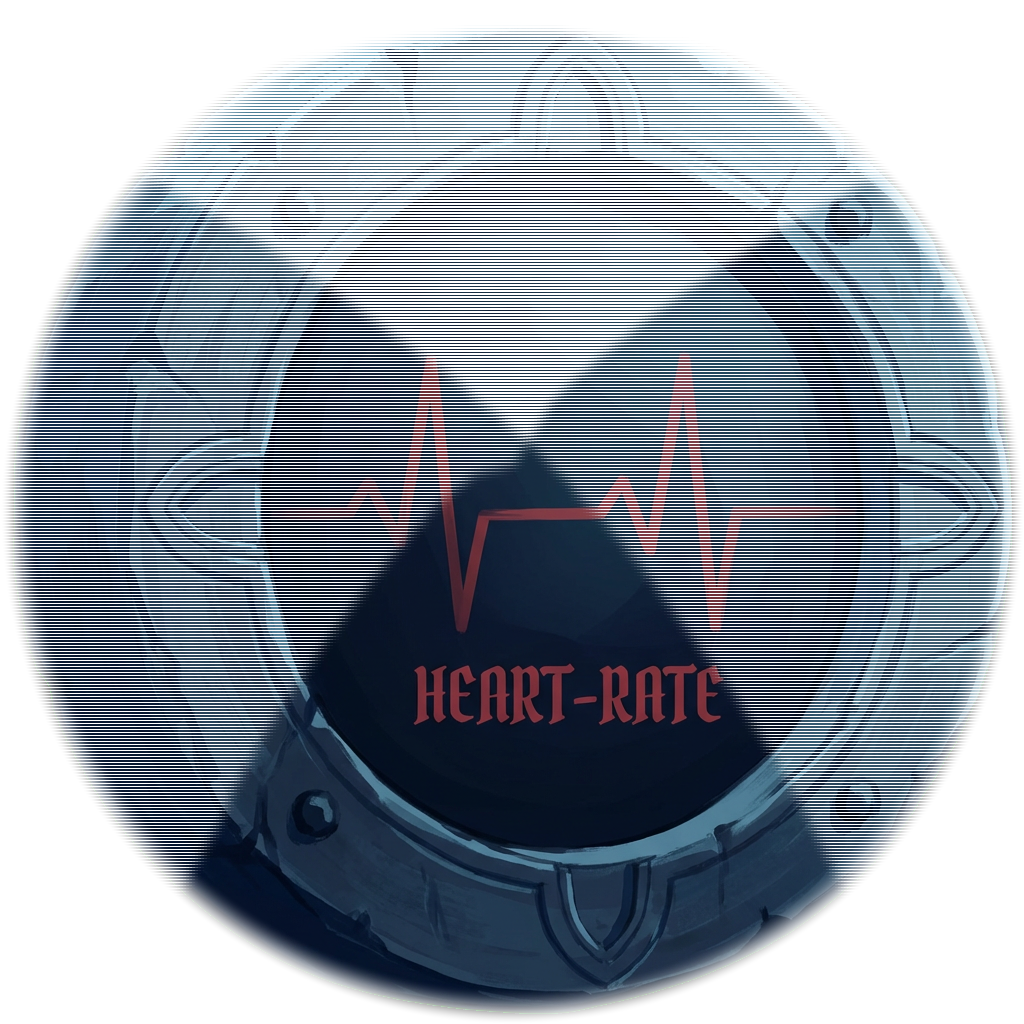
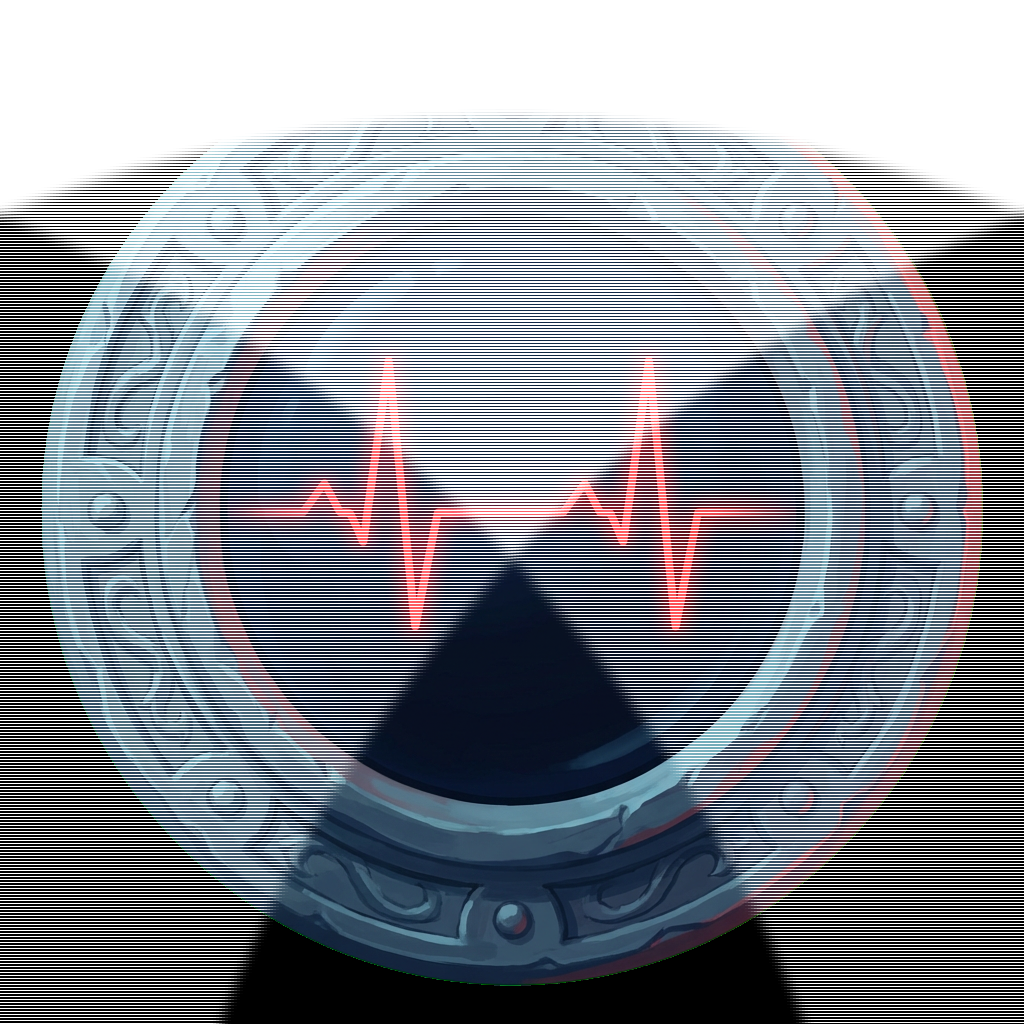
feat(layer3): strengthen ep1/ep10 green-bg prompt; keep mask as fallback
Added CRITICAL BACKGROUND REQUIREMENT block to ep1/ep10 theme-gauge
prompts demanding flat #00FF00 filling all corners with no gradient,
vignette, or scene paint. ep1 regenerated cleanly — Gemini obeyed.
ep10 still painted dark atmospheric bg around bezel so the per-ep
alpha mask (0.73-0.80) is still applied as safety net.

diff --git a/scripts/layer3-prompts.js b/scripts/layer3-prompts.js
@@ -52,7 +52,7 @@ module.exports = {
       {
         name: 'theme-gauge',
         model: 'google/gemini-3-pro-image-preview',
-        prompt: 'Hand-painted 2D digital illustration, anime-cinematic concept art style, cel-shaded with soft gradients, hard clean silhouettes, painterly brushwork, flat shading with minimal detail, cool desaturated moody palette of deep blue-grey shadows and weathered stone tones with a single warm crimson accent, dramatic rim lighting from the side, noir gothic atmosphere matching a painted graveyard at dusk. A perfectly round circular antique heart-rate dial, carved weathered grey-blue stone bezel with simple engraved gothic motifs and a few painted rivets, dark obsidian-blue glass face showing a single glowing crimson ECG waveform pulsing across the center with two visible peaks, the waveform painted as clean flat brushstrokes rather than glowing tube, the bezel reads as hand-painted sculpted stone not polished metal, centered composition, perfectly round circular shape filling the frame, suitable as a faceplate behind a game gauge. NOT photorealistic, NOT 3D render, NOT CGI, NOT cinematic photo, NOT realistic texture, NOT studio render, NOT hyperrealistic, NOT photograph, no micro-texture, no glossy reflections, no lens blur. Solid pure #00FF00 chroma green background filling all edges around the circular bezel, 1024x1024.',
+        prompt: 'Hand-painted 2D digital illustration, anime-cinematic concept art style, cel-shaded with soft gradients, hard clean silhouettes, painterly brushwork, flat shading with minimal detail, cool desaturated moody palette of deep blue-grey shadows and weathered stone tones with a single warm crimson accent, dramatic rim lighting from the side, noir gothic atmosphere matching a painted graveyard at dusk. A perfectly round circular antique heart-rate dial, carved weathered grey-blue stone bezel with simple engraved gothic motifs and a few painted rivets, dark obsidian-blue glass face showing a single glowing crimson ECG waveform pulsing across the center with two visible peaks, the waveform painted as clean flat brushstrokes rather than glowing tube, the bezel reads as hand-painted sculpted stone not polished metal, centered composition, perfectly round circular shape, the gauge bezel must NOT touch any edge of the frame and must be surrounded on all four sides by a wide band of pure chroma green, suitable as a faceplate behind a game gauge. NOT photorealistic, NOT 3D render, NOT CGI, NOT cinematic photo, NOT realistic texture, NOT studio render, NOT hyperrealistic, NOT photograph, no micro-texture, no glossy reflections, no lens blur. CRITICAL BACKGROUND REQUIREMENT: the entire area outside the circular bezel MUST be a solid flat uniform pure #00FF00 chroma green (R=0 G=255 B=0) with absolutely NO shading, NO gradient, NO vignette, NO dark border, NO black corners, NO shadows, NO atmospheric haze — pure saturated #00FF00 only, filling every pixel outside the circle all the way to the image edges and corners. Do NOT paint any scene, sky, floor, or vignette behind the bezel. 1024x1024.',
       },
     ],
   },
@@ -90,7 +90,7 @@ module.exports = {
       {
         name: 'theme-gauge',
         model: 'google/gemini-3-pro-image-preview',
-        prompt: 'Hand-painted 2D digital illustration, anime-cinematic concept art style, cel-shaded with soft gradients, hard clean silhouettes, cool desaturated moody palette of deep teal-grey shadows and icy steel-blue tones with a single pale crimson accent on the needle, dramatic low-key rim lighting from above, painterly brushwork, flat shading with minimal detail, noir atmosphere. A perfectly round circular oxygen pressure gauge filling the frame, weathered dark brass bezel rendered as broad flat painted shapes with simple cel-shaded highlights, a pale icy blue-grey enamel dial face with simple painted tick marks and stylized numerals, a sharp thin crimson needle pointing near empty in the danger zone, soft painterly frost creeping up from the bottom of the glass suggested by loose pale brushstrokes only, subtle cold glow behind the dial, centered square composition suitable as a warning-panel icon, the bezel must be perfectly circular. NOT photorealistic, NOT 3D render, NOT CGI, NOT cinematic photo, NOT product photography, NOT realistic metal reflections, NOT studio render, NOT hyperrealistic, NOT photograph, no micro-texture, no chromatic aberration, no lens flare, no glossy specular highlights, no engraved detail, no rivet micro-detail. Solid pure #00FF00 chroma green background filling all edges around the circular gauge, 1024x1024.',
+        prompt: 'Hand-painted 2D digital illustration, anime-cinematic concept art style, cel-shaded with soft gradients, hard clean silhouettes, cool desaturated moody palette of deep teal-grey shadows and icy steel-blue tones with a single pale crimson accent on the needle, dramatic low-key rim lighting from above, painterly brushwork, flat shading with minimal detail, noir atmosphere. A perfectly round circular oxygen pressure gauge filling the frame, weathered dark brass bezel rendered as broad flat painted shapes with simple cel-shaded highlights, a pale icy blue-grey enamel dial face with simple painted tick marks and stylized numerals, a sharp thin crimson needle pointing near empty in the danger zone, soft painterly frost creeping up from the bottom of the glass suggested by loose pale brushstrokes only, subtle cold glow behind the dial, centered composition, perfectly round circular shape, the gauge bezel must NOT touch any edge of the frame and must be surrounded on all four sides by a wide band of pure chroma green, the bezel must be perfectly circular. NOT photorealistic, NOT 3D render, NOT CGI, NOT cinematic photo, NOT product photography, NOT realistic metal reflections, NOT studio render, NOT hyperrealistic, NOT photograph, no micro-texture, no chromatic aberration, no lens flare, no glossy specular highlights, no engraved detail, no rivet micro-detail. CRITICAL BACKGROUND REQUIREMENT: the entire area outside the circular bezel MUST be a solid flat uniform pure #00FF00 chroma green (R=0 G=255 B=0) with absolutely NO shading, NO gradient, NO vignette, NO dark border, NO black corners, NO shadows, NO atmospheric haze, NO teal tint, NO cool wash — pure saturated #00FF00 only, filling every pixel outside the circle all the way to the image edges and corners. Do NOT paint any scene, sky, floor, fog, or vignette behind the bezel. 1024x1024.',
       },
     ],
   },
